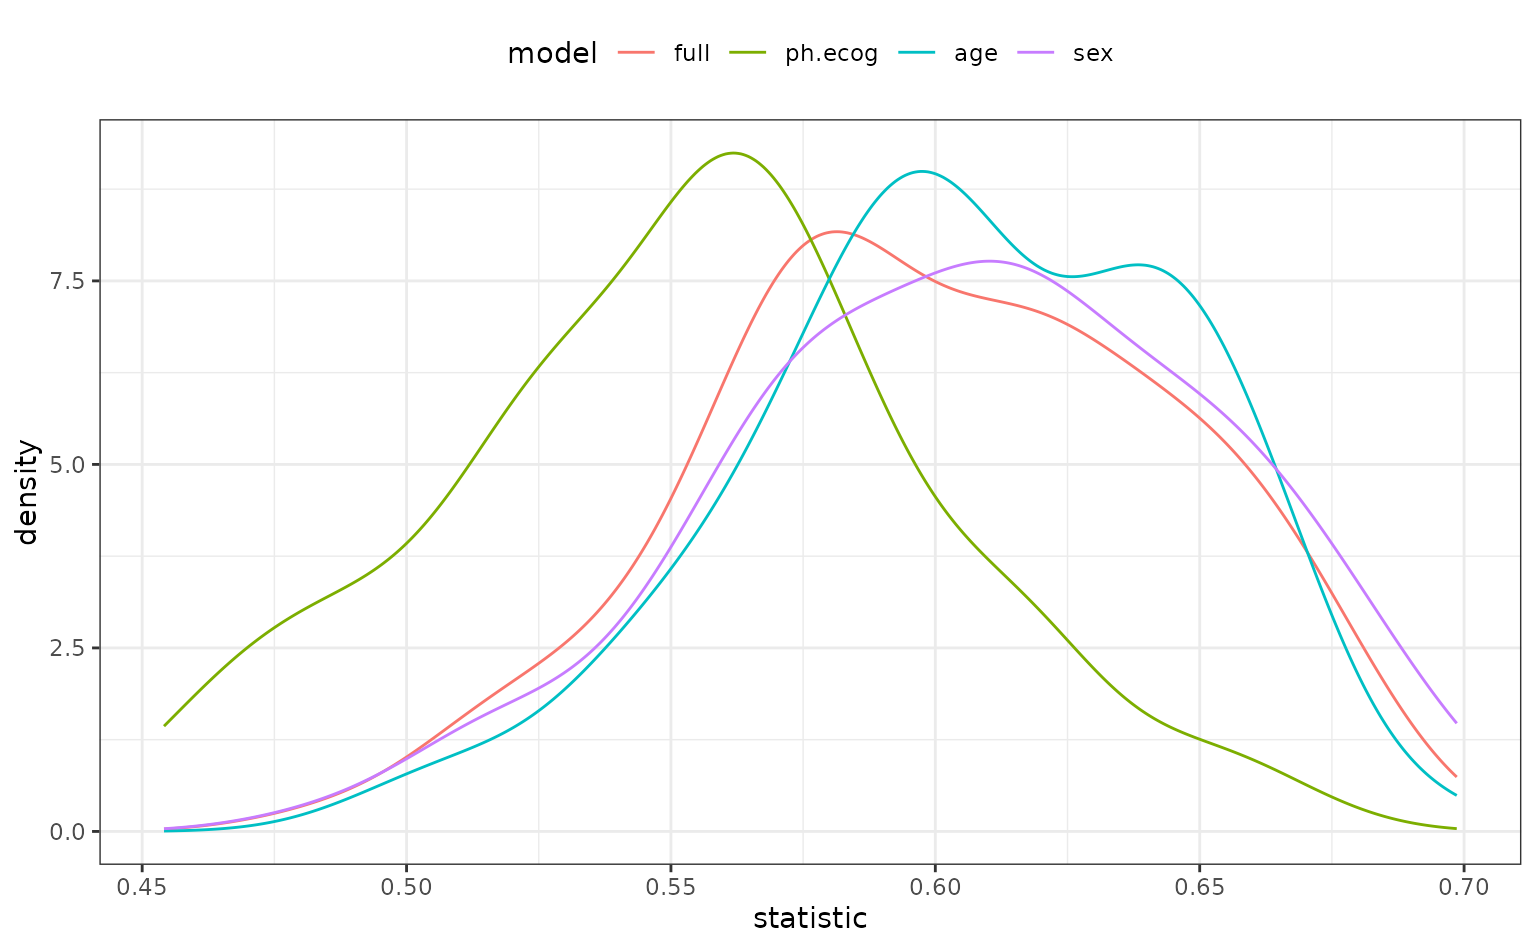
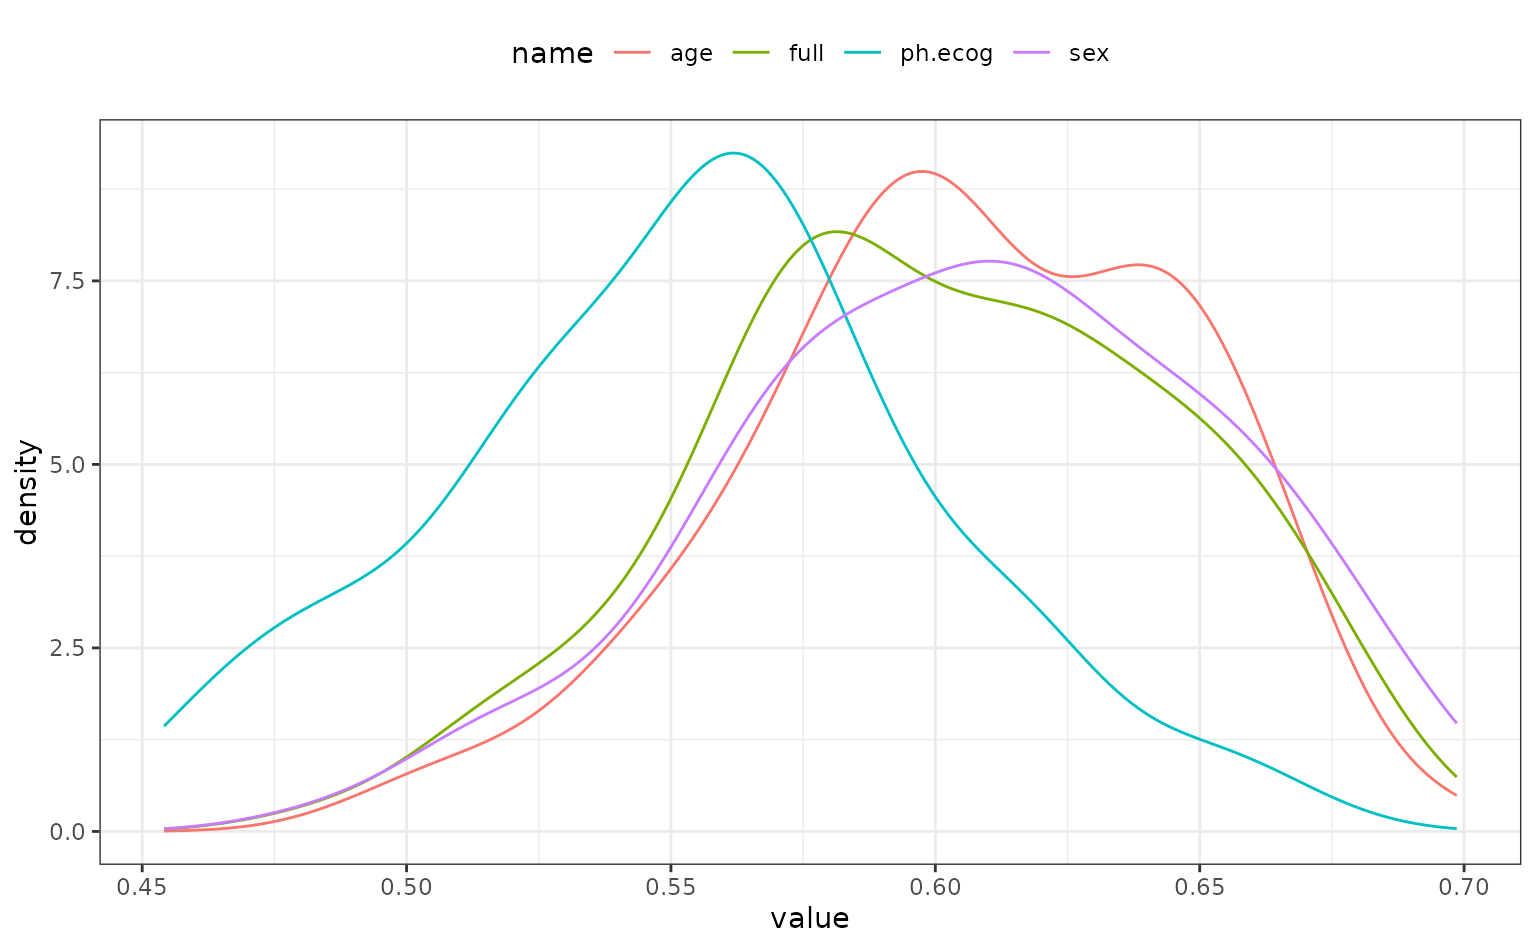
Built site for rsample: 0.1.0.9000@0ac54e6

diff --git a/dev/articles/Applications/Survival_Analysis.html b/dev/articles/Applications/Survival_Analysis.html
@@ -216,26 +216,23 @@
 <span class="kw"><a href="https://rdrr.io/r/base/library.html">library</a></span><span class="op">(</span><span class="va"><a href="https://tidyr.tidyverse.org">tidyr</a></span><span class="op">)</span>
 <span class="kw"><a href="https://rdrr.io/r/base/library.html">library</a></span><span class="op">(</span><span class="va"><a href="https://ggplot2.tidyverse.org">ggplot2</a></span><span class="op">)</span>
 <span class="va">concord_est</span> <span class="op">%&gt;%</span>
-  <span class="fu"><a href="https://tidyr.tidyverse.org/reference/gather.html">gather</a></span><span class="op">(</span><span class="op">)</span> <span class="op">%&gt;%</span>
-  <span class="fu"><a href="https://ggplot2.tidyverse.org/reference/ggplot.html">ggplot</a></span><span class="op">(</span><span class="fu"><a href="https://ggplot2.tidyverse.org/reference/aes.html">aes</a></span><span class="op">(</span>x <span class="op">=</span> <span class="va">statistic</span>, col <span class="op">=</span> <span class="va">model</span><span class="op">)</span><span class="op">)</span> <span class="op">+</span> 
+  <span class="fu"><a href="https://dplyr.tidyverse.org/reference/select.html">select</a></span><span class="op">(</span><span class="op">-</span><span class="va">splits</span><span class="op">)</span> <span class="op">%&gt;%</span>
+  <span class="fu"><a href="https://tidyr.tidyverse.org/reference/pivot_longer.html">pivot_longer</a></span><span class="op">(</span><span class="op">-</span><span class="va">id</span><span class="op">)</span> <span class="op">%&gt;%</span>
+  <span class="fu"><a href="https://ggplot2.tidyverse.org/reference/ggplot.html">ggplot</a></span><span class="op">(</span><span class="fu"><a href="https://ggplot2.tidyverse.org/reference/aes.html">aes</a></span><span class="op">(</span>x <span class="op">=</span> <span class="va">value</span>, color <span class="op">=</span> <span class="va">name</span><span class="op">)</span><span class="op">)</span> <span class="op">+</span> 
   <span class="fu"><a href="https://ggplot2.tidyverse.org/reference/geom_path.html">geom_line</a></span><span class="op">(</span>stat <span class="op">=</span> <span class="st">"density"</span><span class="op">)</span> <span class="op">+</span> 
   <span class="fu"><a href="https://ggplot2.tidyverse.org/reference/ggtheme.html">theme_bw</a></span><span class="op">(</span><span class="op">)</span> <span class="op">+</span> 
   <span class="fu"><a href="https://ggplot2.tidyverse.org/reference/theme.html">theme</a></span><span class="op">(</span>legend.position <span class="op">=</span> <span class="st">"top"</span><span class="op">)</span></code></pre></div>
-<pre><code>## Warning: `gather.rset()` was deprecated in rsample 0.1.0.
-## Please use `tidyr::pivot_longer()` instead.
-## This warning is displayed once every 8 hours.
-## Call `lifecycle::last_warnings()` to see where this warning was generated.</code></pre>
 <p><img src="Survival_Analysis_files/figure-html/concord-df-1.png" width="768"></p>
 <p>It looks as though the model missing <code>ph.ecog</code> has larger concordance values than the other models. As one might expect, the full model and the model absent <code>sex</code> are very similar; the difference in these models should only be the scale parameters estimates.</p>
 <p>To more formally test this, the <code>tidyposterior</code> package is used to create a Bayesian model for the concordance statistics.</p>
-<div class="sourceCode" id="cb16"><pre class="downlit sourceCode r">
+<div class="sourceCode" id="cb15"><pre class="downlit sourceCode r">
 <code class="sourceCode R"><span class="kw"><a href="https://rdrr.io/r/base/library.html">library</a></span><span class="op">(</span><span class="va"><a href="https://tidyposterior.tidymodels.org">tidyposterior</a></span><span class="op">)</span>
 <span class="va">concord_est</span> <span class="op">&lt;-</span> <span class="fu"><a href="https://tidyposterior.tidymodels.org/reference/perf_mod.html">perf_mod</a></span><span class="op">(</span><span class="va">concord_est</span>, seed <span class="op">=</span> <span class="fl">6507</span>, iter <span class="op">=</span> <span class="fl">5000</span><span class="op">)</span></code></pre></div>
 <pre><code>## 
 ## SAMPLING FOR MODEL 'continuous' NOW (CHAIN 1).
 ## Chain 1: 
-## Chain 1: Gradient evaluation took 9.6e-05 seconds
-## Chain 1: 1000 transitions using 10 leapfrog steps per transition would take 0.96 seconds.
+## Chain 1: Gradient evaluation took 0.000107 seconds
+## Chain 1: 1000 transitions using 10 leapfrog steps per transition would take 1.07 seconds.
 ## Chain 1: Adjust your expectations accordingly!
 ## Chain 1: 
 ## Chain 1: 
@@ -252,15 +249,15 @@
 ## Chain 1: Iteration: 4500 / 5000 [ 90%]  (Sampling)
 ## Chain 1: Iteration: 5000 / 5000 [100%]  (Sampling)
 ## Chain 1: 
-## Chain 1:  Elapsed Time: 8.04612 seconds (Warm-up)
-## Chain 1:                1.79483 seconds (Sampling)
-## Chain 1:                9.84095 seconds (Total)
+## Chain 1:  Elapsed Time: 9.65871 seconds (Warm-up)
+## Chain 1:                2.1375 seconds (Sampling)
+## Chain 1:                11.7962 seconds (Total)
 ## Chain 1: 
 ## 
 ## SAMPLING FOR MODEL 'continuous' NOW (CHAIN 2).
 ## Chain 2: 
-## Chain 2: Gradient evaluation took 6e-05 seconds
-## Chain 2: 1000 transitions using 10 leapfrog steps per transition would take 0.6 seconds.
+## Chain 2: Gradient evaluation took 6.7e-05 seconds
+## Chain 2: 1000 transitions using 10 leapfrog steps per transition would take 0.67 seconds.
 ## Chain 2: Adjust your expectations accordingly!
 ## Chain 2: 
 ## Chain 2: 
@@ -277,15 +274,15 @@
 ## Chain 2: Iteration: 4500 / 5000 [ 90%]  (Sampling)
 ## Chain 2: Iteration: 5000 / 5000 [100%]  (Sampling)
 ## Chain 2: 
-## Chain 2:  Elapsed Time: 8.53155 seconds (Warm-up)
-## Chain 2:                2.07521 seconds (Sampling)
-## Chain 2:                10.6068 seconds (Total)
+## Chain 2:  Elapsed Time: 10.3035 seconds (Warm-up)
+## Chain 2:                2.46701 seconds (Sampling)
+## Chain 2:                12.7705 seconds (Total)
 ## Chain 2: 
 ## 
 ## SAMPLING FOR MODEL 'continuous' NOW (CHAIN 3).
 ## Chain 3: 
-## Chain 3: Gradient evaluation took 5.5e-05 seconds
-## Chain 3: 1000 transitions using 10 leapfrog steps per transition would take 0.55 seconds.
+## Chain 3: Gradient evaluation took 6.7e-05 seconds
+## Chain 3: 1000 transitions using 10 leapfrog steps per transition would take 0.67 seconds.
 ## Chain 3: Adjust your expectations accordingly!
 ## Chain 3: 
 ## Chain 3: 
@@ -302,15 +299,15 @@
 ## Chain 3: Iteration: 4500 / 5000 [ 90%]  (Sampling)
 ## Chain 3: Iteration: 5000 / 5000 [100%]  (Sampling)
 ## Chain 3: 
-## Chain 3:  Elapsed Time: 8.15028 seconds (Warm-up)
-## Chain 3:                3.16033 seconds (Sampling)
-## Chain 3:                11.3106 seconds (Total)
+## Chain 3:  Elapsed Time: 9.77218 seconds (Warm-up)
+## Chain 3:                3.77494 seconds (Sampling)
+## Chain 3:                13.5471 seconds (Total)
 ## Chain 3: 
 ## 
 ## SAMPLING FOR MODEL 'continuous' NOW (CHAIN 4).
 ## Chain 4: 
-## Chain 4: Gradient evaluation took 5.5e-05 seconds
-## Chain 4: 1000 transitions using 10 leapfrog steps per transition would take 0.55 seconds.
+## Chain 4: Gradient evaluation took 6.6e-05 seconds
+## Chain 4: 1000 transitions using 10 leapfrog steps per transition would take 0.66 seconds.
 ## Chain 4: Adjust your expectations accordingly!
 ## Chain 4: 
 ## Chain 4: 
@@ -327,11 +324,11 @@
 ## Chain 4: Iteration: 4500 / 5000 [ 90%]  (Sampling)
 ## Chain 4: Iteration: 5000 / 5000 [100%]  (Sampling)
 ## Chain 4: 
-## Chain 4:  Elapsed Time: 8.22605 seconds (Warm-up)
-## Chain 4:                2.5478 seconds (Sampling)
-## Chain 4:                10.7739 seconds (Total)
+## Chain 4:  Elapsed Time: 9.97189 seconds (Warm-up)
+## Chain 4:                3.0419 seconds (Sampling)
+## Chain 4:                13.0138 seconds (Total)
 ## Chain 4:</code></pre>
-<div class="sourceCode" id="cb18"><pre class="downlit sourceCode r">
+<div class="sourceCode" id="cb17"><pre class="downlit sourceCode r">
 <code class="sourceCode R"><span class="va">concord_est</span><span class="op">$</span><span class="va">stan</span></code></pre></div>
 <pre><code>## stan_glmer
 ##  family:       gaussian [identity]
@@ -358,12 +355,12 @@
 ## * For help interpreting the printed output see ?print.stanreg
 ## * For info on the priors used see ?prior_summary.stanreg</code></pre>
 <p>To summarize the posteriors for each model:</p>
-<div class="sourceCode" id="cb20"><pre class="downlit sourceCode r">
+<div class="sourceCode" id="cb19"><pre class="downlit sourceCode r">
 <code class="sourceCode R"><span class="fu"><a href="https://ggplot2.tidyverse.org/reference/ggplot.html">ggplot</a></span><span class="op">(</span><span class="fu"><a href="https://generics.r-lib.org/reference/tidy.html">tidy</a></span><span class="op">(</span><span class="va">concord_est</span><span class="op">)</span><span class="op">)</span> <span class="op">+</span> 
   <span class="fu"><a href="https://ggplot2.tidyverse.org/reference/ggtheme.html">theme_bw</a></span><span class="op">(</span><span class="op">)</span></code></pre></div>
 <p><img src="Survival_Analysis_files/figure-html/post-1.png" width="768"></p>
 <p>While this seems clear-cut, let’s assume that a difference in the concordance statistic of 0.1 is a real effect. To compute the posteriors for the difference in models, the full model will be contrasted with the others:</p>
-<div class="sourceCode" id="cb21"><pre class="downlit sourceCode r">
+<div class="sourceCode" id="cb20"><pre class="downlit sourceCode r">
 <code class="sourceCode R"><span class="va">comparisons</span> <span class="op">&lt;-</span> <span class="fu"><a href="https://tidyposterior.tidymodels.org/reference/contrast_models.html">contrast_models</a></span><span class="op">(</span>
   <span class="va">concord_est</span>, 
   list_1 <span class="op">=</span> <span class="fu"><a href="https://rdrr.io/r/base/rep.html">rep</a></span><span class="op">(</span><span class="st">"full"</span>, <span class="fl">3</span><span class="op">)</span>,
@@ -371,12 +368,12 @@
   seed <span class="op">=</span> <span class="fl">4654</span>
   <span class="op">)</span></code></pre></div>
 <p>The posterior distributions show that, statistically, <code>ph.ecog</code> has real importance ot the model. However, since these distributions are mostly with +/- 0.05, they are unlikely to be real differences.</p>
-<div class="sourceCode" id="cb22"><pre class="downlit sourceCode r">
+<div class="sourceCode" id="cb21"><pre class="downlit sourceCode r">
 <code class="sourceCode R"><span class="fu"><a href="https://ggplot2.tidyverse.org/reference/ggplot.html">ggplot</a></span><span class="op">(</span><span class="va">comparisons</span>, size <span class="op">=</span> <span class="fl">0.05</span><span class="op">)</span> <span class="op">+</span> 
   <span class="fu"><a href="https://ggplot2.tidyverse.org/reference/ggtheme.html">theme_bw</a></span><span class="op">(</span><span class="op">)</span></code></pre></div>
 <p><img src="Survival_Analysis_files/figure-html/diff-post-1.png" width="768"></p>
 <p>The ROPE statistics quantify the practical effects:</p>
-<div class="sourceCode" id="cb23"><pre class="downlit sourceCode r">
+<div class="sourceCode" id="cb22"><pre class="downlit sourceCode r">
 <code class="sourceCode R"><span class="fu"><a href="https://rdrr.io/r/base/summary.html">summary</a></span><span class="op">(</span><span class="va">comparisons</span>, size <span class="op">=</span> <span class="fl">0.05</span><span class="op">)</span> <span class="op">%&gt;%</span>
   <span class="fu">dplyr</span><span class="fu">::</span><span class="fu"><a href="https://dplyr.tidyverse.org/reference/select.html">select</a></span><span class="op">(</span><span class="va">contrast</span>, <span class="fu"><a href="https://tidyselect.r-lib.org/reference/starts_with.html">starts_with</a></span><span class="op">(</span><span class="st">"pract"</span><span class="op">)</span><span class="op">)</span></code></pre></div>
 <pre><code>## # A tibble: 3 × 4

diff --git a/dev/reference/gather.rset.html b/dev/reference/gather.rset.html
@@ -233,29 +233,8 @@ factor, which preserves the original ordering of the columns.</p></td>
 <span class='va'>cv_obj</span><span class='op'>$</span><span class='va'>nnet_rmse</span> <span class='op'>&lt;-</span> <span class='fu'><a href='https://rdrr.io/r/stats/Normal.html'>rnorm</a></span><span class='op'>(</span><span class='fl'>10</span>, mean <span class='op'>=</span> <span class='fl'>1</span><span class='op'>)</span>
 
 <span class='co'>## now deprecated for rset objects:</span>
-<span class='fu'><a href='https://tidyr.tidyverse.org/reference/gather.html'>gather</a></span><span class='op'>(</span><span class='va'>cv_obj</span><span class='op'>)</span>
-</div><div class='output co'>#&gt; <span class='warning'>Warning: `gather.rset()` was deprecated in rsample 0.1.0.</span>
-#&gt; <span class='warning'>Please use `tidyr::pivot_longer()` instead.</span></div><div class='output co'>#&gt;        id     model  statistic
-#&gt; 1  Fold01   lm_rmse  0.2057106
-#&gt; 2  Fold02   lm_rmse  1.6133574
-#&gt; 3  Fold03   lm_rmse  0.6221739
-#&gt; 4  Fold04   lm_rmse  1.9626400
-#&gt; 5  Fold05   lm_rmse  1.9196722
-#&gt; 6  Fold06   lm_rmse  1.2689681
-#&gt; 7  Fold07   lm_rmse  2.4054513
-#&gt; 8  Fold08   lm_rmse  1.9371069
-#&gt; 9  Fold09   lm_rmse  2.8798132
-#&gt; 10 Fold10   lm_rmse  1.9696502
-#&gt; 11 Fold01 nnet_rmse -0.3537264
-#&gt; 12 Fold02 nnet_rmse  3.3714905
-#&gt; 13 Fold03 nnet_rmse  0.4639264
-#&gt; 14 Fold04 nnet_rmse  0.6281649
-#&gt; 15 Fold05 nnet_rmse  1.5481473
-#&gt; 16 Fold06 nnet_rmse  1.2450459
-#&gt; 17 Fold07 nnet_rmse  0.1624949
-#&gt; 18 Fold08 nnet_rmse  2.8361670
-#&gt; 19 Fold09 nnet_rmse  1.0331194
-#&gt; 20 Fold10 nnet_rmse  0.3114896</div><div class='input'>
+<span class='co'>## gather(cv_obj)</span>
+
 <span class='co'>## instead of gather, use tidyr::pivot_longer:</span>
 <span class='kw'><a href='https://rdrr.io/r/base/library.html'>library</a></span><span class='op'>(</span><span class='va'><a href='https://tidyr.tidyverse.org'>tidyr</a></span><span class='op'>)</span>
 <span class='kw'><a href='https://rdrr.io/r/base/library.html'>library</a></span><span class='op'>(</span><span class='va'><a href='https://dplyr.tidyverse.org'>dplyr</a></span><span class='op'>)</span>

diff --git a/dev/news/index.html b/dev/news/index.html
@@ -167,6 +167,7 @@
 <li><p>Updated documentation on stratified sampling (<a href='https://github.com/tidymodels/rsample/issues/245'>#245</a>).</p></li>
 <li><p>Changed <code><a href="../reference/make_splits.html">make_splits()</a></code> to an S3 generic, with the original functionality a method for <code>list</code> and a new method for dataframes that allows users to create a split from existing analysis &amp; assessment sets (<a href='https://github.com/LiamBlake'>@LiamBlake</a>, <a href='https://github.com/tidymodels/rsample/issues/246'>#246</a>).</p></li>
 <li><p>Added <code><a href="../reference/validation_split.html">validation_time_split()</a></code> for a single validation sample taking the first samples for training (<a href='https://github.com/mine-cetinkaya-rundel'>@mine-cetinkaya-rundel</a>, <a href='https://github.com/tidymodels/rsample/issues/256'>#256</a>).</p></li>
+<li><p>Escalated the deprecation of the <code><a href="https://tidyr.tidyverse.org/reference/gather.html">gather()</a></code> method for <code>rset</code> objects to a hard deprecation. Use <code><a href="https://tidyr.tidyverse.org/reference/pivot_longer.html">tidyr::pivot_longer()</a></code> instead (<a href='https://github.com/tidymodels/rsample/issues/257'>#257</a>).</p></li>
 </ul>
 </div>
     <div id="rsample-010" class="section level1">
